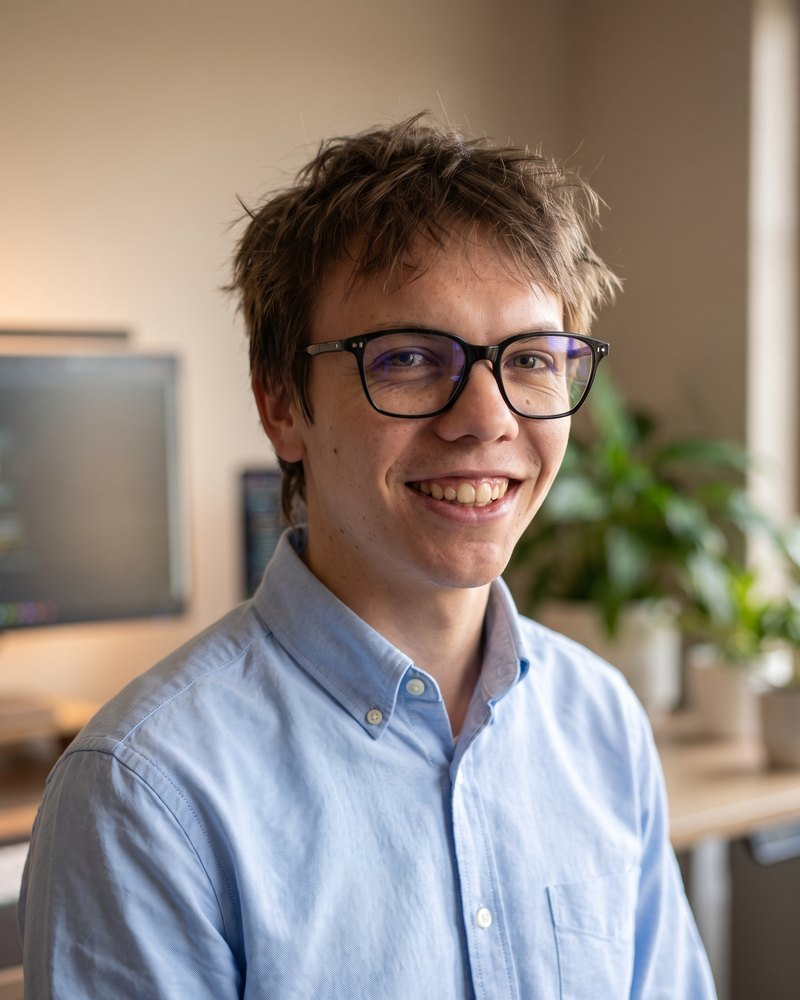
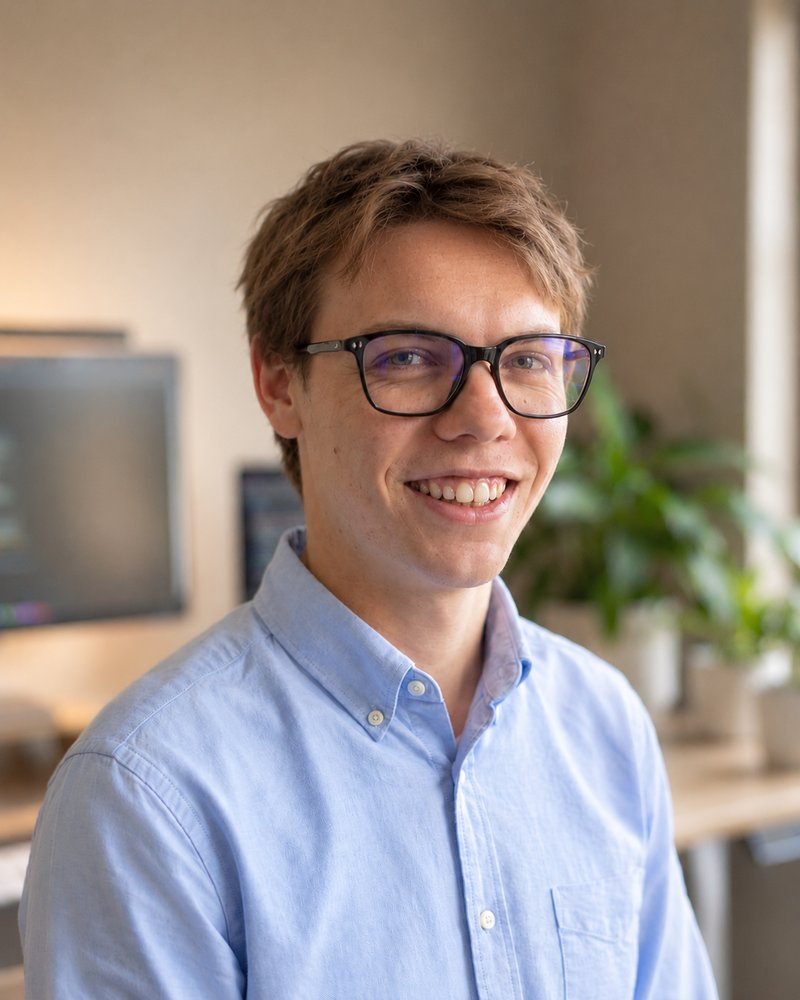
Add files via upload
SEO: anteprima social, llms.txt, robots, foto nuova

diff --git a/servizi/siti-web-vicenza/index.html b/servizi/siti-web-vicenza/index.html
@@ -19,6 +19,11 @@
 <meta property="og:title" content="Siti web a Vicenza per aziende e professionisti | Samuele Pacchin">
 <meta property="og:description" content="Siti web su misura a Vicenza e in tutta Italia: siti vetrina da 499 € con fino a 5 pagine incluse, siti aziendali multipagina e bilingue. Prezzo fisso, pubblicazione inclusa.">
 <meta name="twitter:card" content="summary_large_image">
+<meta property="og:image" content="https://teovani.it/og-image.png">
+<meta property="og:image:width" content="1200">
+<meta property="og:image:height" content="630">
+<meta property="og:image:alt" content="Samuele Pacchin — Siti web, landing page e automazioni AI a Vicenza">
+<meta name="twitter:image" content="https://teovani.it/og-image.png">
 <link rel="preconnect" href="https://fonts.googleapis.com">
 <link rel="preconnect" href="https://fonts.gstatic.com" crossorigin>
 <link href="https://fonts.googleapis.com/css2?family=Geist:wght@400;500;600&family=Geist+Mono:wght@400;500&family=Instrument+Serif:ital@0;1&display=swap" rel="stylesheet">

diff --git a/prezzi/index.html b/prezzi/index.html
@@ -19,6 +19,11 @@
 <meta property="og:title" content="Prezzi di siti web, landing page e automazioni AI | Samuele Pacchin">
 <meta property="og:description" content="Prezzi di partenza: landing page da 349 €, sito vetrina da 499 €, automazione AI da 899 € + canone mensile. Prezzo fisso, 50% all’avvio e saldo alla consegna.">
 <meta name="twitter:card" content="summary_large_image">
+<meta property="og:image" content="https://teovani.it/og-image.png">
+<meta property="og:image:width" content="1200">
+<meta property="og:image:height" content="630">
+<meta property="og:image:alt" content="Samuele Pacchin — Siti web, landing page e automazioni AI a Vicenza">
+<meta name="twitter:image" content="https://teovani.it/og-image.png">
 <link rel="preconnect" href="https://fonts.googleapis.com">
 <link rel="preconnect" href="https://fonts.gstatic.com" crossorigin>
 <link href="https://fonts.googleapis.com/css2?family=Geist:wght@400;500;600&family=Geist+Mono:wght@400;500&family=Instrument+Serif:ital@0;1&display=swap" rel="stylesheet">

diff --git a/servizi/index.html b/servizi/index.html
@@ -19,6 +19,11 @@
 <meta property="og:title" content="Servizi: siti web, landing page e automazioni AI | Samuele Pacchin">
 <meta property="og:description" content="Landing page, siti web, automazioni AI e video e immagini con AI per aziende e professionisti, a Vicenza e in tutta Italia. Prezzo fisso, concordato prima di iniziare.">
 <meta name="twitter:card" content="summary_large_image">
+<meta property="og:image" content="https://teovani.it/og-image.png">
+<meta property="og:image:width" content="1200">
+<meta property="og:image:height" content="630">
+<meta property="og:image:alt" content="Samuele Pacchin — Siti web, landing page e automazioni AI a Vicenza">
+<meta name="twitter:image" content="https://teovani.it/og-image.png">
 <link rel="preconnect" href="https://fonts.googleapis.com">
 <link rel="preconnect" href="https://fonts.gstatic.com" crossorigin>
 <link href="https://fonts.googleapis.com/css2?family=Geist:wght@400;500;600&family=Geist+Mono:wght@400;500&family=Instrument+Serif:ital@0;1&display=swap" rel="stylesheet">

diff --git a/servizi/automazioni-ai/index.html b/servizi/automazioni-ai/index.html
@@ -19,6 +19,11 @@
 <meta property="og:title" content="Automazioni AI per aziende di ogni settore | Samuele Pacchin">
 <meta property="og:description" content="Automazioni AI su misura per aziende di qualsiasi settore: mail, fogli, gestionali e intelligenza artificiale collegati per togliere il lavoro ripetitivo. Da 899 €.">
 <meta name="twitter:card" content="summary_large_image">
+<meta property="og:image" content="https://teovani.it/og-image.png">
+<meta property="og:image:width" content="1200">
+<meta property="og:image:height" content="630">
+<meta property="og:image:alt" content="Samuele Pacchin — Siti web, landing page e automazioni AI a Vicenza">
+<meta name="twitter:image" content="https://teovani.it/og-image.png">
 <link rel="preconnect" href="https://fonts.googleapis.com">
 <link rel="preconnect" href="https://fonts.gstatic.com" crossorigin>
 <link href="https://fonts.googleapis.com/css2?family=Geist:wght@400;500;600&family=Geist+Mono:wght@400;500&family=Instrument+Serif:ital@0;1&display=swap" rel="stylesheet">

diff --git a/servizi/video-immagini-ai/index.html b/servizi/video-immagini-ai/index.html
@@ -19,6 +19,11 @@
 <meta property="og:title" content="Video e immagini AI per siti, prodotti e social | Samuele Pacchin">
 <meta property="og:description" content="Video e immagini generati con l'intelligenza artificiale per siti web, schede prodotto e campagne social, coerenti con il tuo brand. Preventivo su richiesta.">
 <meta name="twitter:card" content="summary_large_image">
+<meta property="og:image" content="https://teovani.it/og-image.png">
+<meta property="og:image:width" content="1200">
+<meta property="og:image:height" content="630">
+<meta property="og:image:alt" content="Samuele Pacchin — Siti web, landing page e automazioni AI a Vicenza">
+<meta name="twitter:image" content="https://teovani.it/og-image.png">
 <link rel="preconnect" href="https://fonts.googleapis.com">
 <link rel="preconnect" href="https://fonts.gstatic.com" crossorigin>
 <link href="https://fonts.googleapis.com/css2?family=Geist:wght@400;500;600&family=Geist+Mono:wght@400;500&family=Instrument+Serif:ital@0;1&display=swap" rel="stylesheet">

diff --git a/lavori/preventivi-automatici-noleggio/index.html b/lavori/preventivi-automatici-noleggio/index.html
@@ -19,6 +19,11 @@
 <meta property="og:title" content="Preventivi automatici per il noleggio con l'AI | Samuele Pacchin">
 <meta property="og:description" content="Un'automazione AI per aziende di noleggio attrezzature: legge le mail di richiesta, sceglie gli articoli, calcola il prezzo e prepara la bozza di preventivo.">
 <meta name="twitter:card" content="summary_large_image">
+<meta property="og:image" content="https://teovani.it/og-image.png">
+<meta property="og:image:width" content="1200">
+<meta property="og:image:height" content="630">
+<meta property="og:image:alt" content="Samuele Pacchin — Siti web, landing page e automazioni AI a Vicenza">
+<meta name="twitter:image" content="https://teovani.it/og-image.png">
 <link rel="preconnect" href="https://fonts.googleapis.com">
 <link rel="preconnect" href="https://fonts.gstatic.com" crossorigin>
 <link href="https://fonts.googleapis.com/css2?family=Geist:wght@400;500;600&family=Geist+Mono:wght@400;500&family=Instrument+Serif:ital@0;1&display=swap" rel="stylesheet">

diff --git a/contatti/index.html b/contatti/index.html
@@ -19,6 +19,11 @@
 <meta property="og:title" content="Contatti: richiedi un preventivo | Samuele Pacchin">
 <meta property="og:description" content="Scrivi a Samuele Pacchin, web designer a Vicenza: form, WhatsApp, email o LinkedIn. Risposta entro un giorno lavorativo, prezzo fisso dopo una chiamata di 15 minuti.">
 <meta name="twitter:card" content="summary_large_image">
+<meta property="og:image" content="https://teovani.it/og-image.png">
+<meta property="og:image:width" content="1200">
+<meta property="og:image:height" content="630">
+<meta property="og:image:alt" content="Samuele Pacchin — Siti web, landing page e automazioni AI a Vicenza">
+<meta name="twitter:image" content="https://teovani.it/og-image.png">
 <link rel="preconnect" href="https://fonts.googleapis.com">
 <link rel="preconnect" href="https://fonts.gstatic.com" crossorigin>
 <link href="https://fonts.googleapis.com/css2?family=Geist:wght@400;500;600&family=Geist+Mono:wght@400;500&family=Instrument+Serif:ital@0;1&display=swap" rel="stylesheet">

diff --git a/blog/index.html b/blog/index.html
@@ -19,6 +19,11 @@
 <meta property="og:title" content="Blog: guide su siti web, landing page e automazioni AI | Samuele Pacchin">
 <meta property="og:description" content="Guide pratiche per aziende e professionisti: quanto costa un sito web, landing page o sito vetrina, automazioni AI per le piccole imprese.">
 <meta name="twitter:card" content="summary_large_image">
+<meta property="og:image" content="https://teovani.it/og-image.png">
+<meta property="og:image:width" content="1200">
+<meta property="og:image:height" content="630">
+<meta property="og:image:alt" content="Samuele Pacchin — Siti web, landing page e automazioni AI a Vicenza">
+<meta name="twitter:image" content="https://teovani.it/og-image.png">
 <link rel="preconnect" href="https://fonts.googleapis.com">
 <link rel="preconnect" href="https://fonts.gstatic.com" crossorigin>
 <link href="https://fonts.googleapis.com/css2?family=Geist:wght@400;500;600&family=Geist+Mono:wght@400;500&family=Instrument+Serif:ital@0;1&display=swap" rel="stylesheet">

diff --git a/lavori/index.html b/lavori/index.html
@@ -19,6 +19,11 @@
 <meta property="og:title" content="Progetti: siti web, landing page e automazioni | Samuele Pacchin">
 <meta property="og:description" content="I progetti di Samuele Pacchin: un sito aziendale su misura e bilingue, una landing page premium e un sistema di preventivi automatici con l’AI.">
 <meta name="twitter:card" content="summary_large_image">
+<meta property="og:image" content="https://teovani.it/og-image.png">
+<meta property="og:image:width" content="1200">
+<meta property="og:image:height" content="630">
+<meta property="og:image:alt" content="Samuele Pacchin — Siti web, landing page e automazioni AI a Vicenza">
+<meta name="twitter:image" content="https://teovani.it/og-image.png">
 <link rel="preconnect" href="https://fonts.googleapis.com">
 <link rel="preconnect" href="https://fonts.gstatic.com" crossorigin>
 <link href="https://fonts.googleapis.com/css2?family=Geist:wght@400;500;600&family=Geist+Mono:wght@400;500&family=Instrument+Serif:ital@0;1&display=swap" rel="stylesheet">

diff --git a/servizi/landing-page-vicenza/index.html b/servizi/landing-page-vicenza/index.html
@@ -19,6 +19,11 @@
 <meta property="og:title" content="Landing page a Vicenza su misura, da 349 € | Samuele Pacchin">
 <meta property="og:description" content="Landing page su misura a Vicenza e in tutta Italia: una pagina, un obiettivo. Testi, immagini, form e SEO di base inclusi. Prezzo fisso da 349 €.">
 <meta name="twitter:card" content="summary_large_image">
+<meta property="og:image" content="https://teovani.it/og-image.png">
+<meta property="og:image:width" content="1200">
+<meta property="og:image:height" content="630">
+<meta property="og:image:alt" content="Samuele Pacchin — Siti web, landing page e automazioni AI a Vicenza">
+<meta name="twitter:image" content="https://teovani.it/og-image.png">
 <link rel="preconnect" href="https://fonts.googleapis.com">
 <link rel="preconnect" href="https://fonts.gstatic.com" crossorigin>
 <link href="https://fonts.googleapis.com/css2?family=Geist:wght@400;500;600&family=Geist+Mono:wght@400;500&family=Instrument+Serif:ital@0;1&display=swap" rel="stylesheet">

diff --git a/lavori/landing-page-premium/index.html b/lavori/landing-page-premium/index.html
@@ -19,6 +19,11 @@
 <meta property="og:title" content="Landing page premium con animazioni e vista a 360° | Samuele Pacchin">
 <meta property="og:description" content="Una landing page di fascia alta per il settore automotive: animazione allo scroll, sezione interni con video e vista a 360° dell'auto.">
 <meta name="twitter:card" content="summary_large_image">
+<meta property="og:image" content="https://teovani.it/og-image.png">
+<meta property="og:image:width" content="1200">
+<meta property="og:image:height" content="630">
+<meta property="og:image:alt" content="Samuele Pacchin — Siti web, landing page e automazioni AI a Vicenza">
+<meta name="twitter:image" content="https://teovani.it/og-image.png">
 <link rel="preconnect" href="https://fonts.googleapis.com">
 <link rel="preconnect" href="https://fonts.gstatic.com" crossorigin>
 <link href="https://fonts.googleapis.com/css2?family=Geist:wght@400;500;600&family=Geist+Mono:wght@400;500&family=Instrument+Serif:ital@0;1&display=swap" rel="stylesheet">

diff --git a/lavori/sito-web-aziendale/index.html b/lavori/sito-web-aziendale/index.html
@@ -19,6 +19,11 @@
 <meta property="og:title" content="Sito web aziendale su misura e bilingue | Samuele Pacchin">
 <meta property="og:description" content="Un sito aziendale rifatto da zero: 14 pagine su misura, in italiano e inglese, con form contatti e candidature.">
 <meta name="twitter:card" content="summary_large_image">
+<meta property="og:image" content="https://teovani.it/og-image.png">
+<meta property="og:image:width" content="1200">
+<meta property="og:image:height" content="630">
+<meta property="og:image:alt" content="Samuele Pacchin — Siti web, landing page e automazioni AI a Vicenza">
+<meta name="twitter:image" content="https://teovani.it/og-image.png">
 <link rel="preconnect" href="https://fonts.googleapis.com">
 <link rel="preconnect" href="https://fonts.gstatic.com" crossorigin>
 <link href="https://fonts.googleapis.com/css2?family=Geist:wght@400;500;600&family=Geist+Mono:wght@400;500&family=Instrument+Serif:ital@0;1&display=swap" rel="stylesheet">
